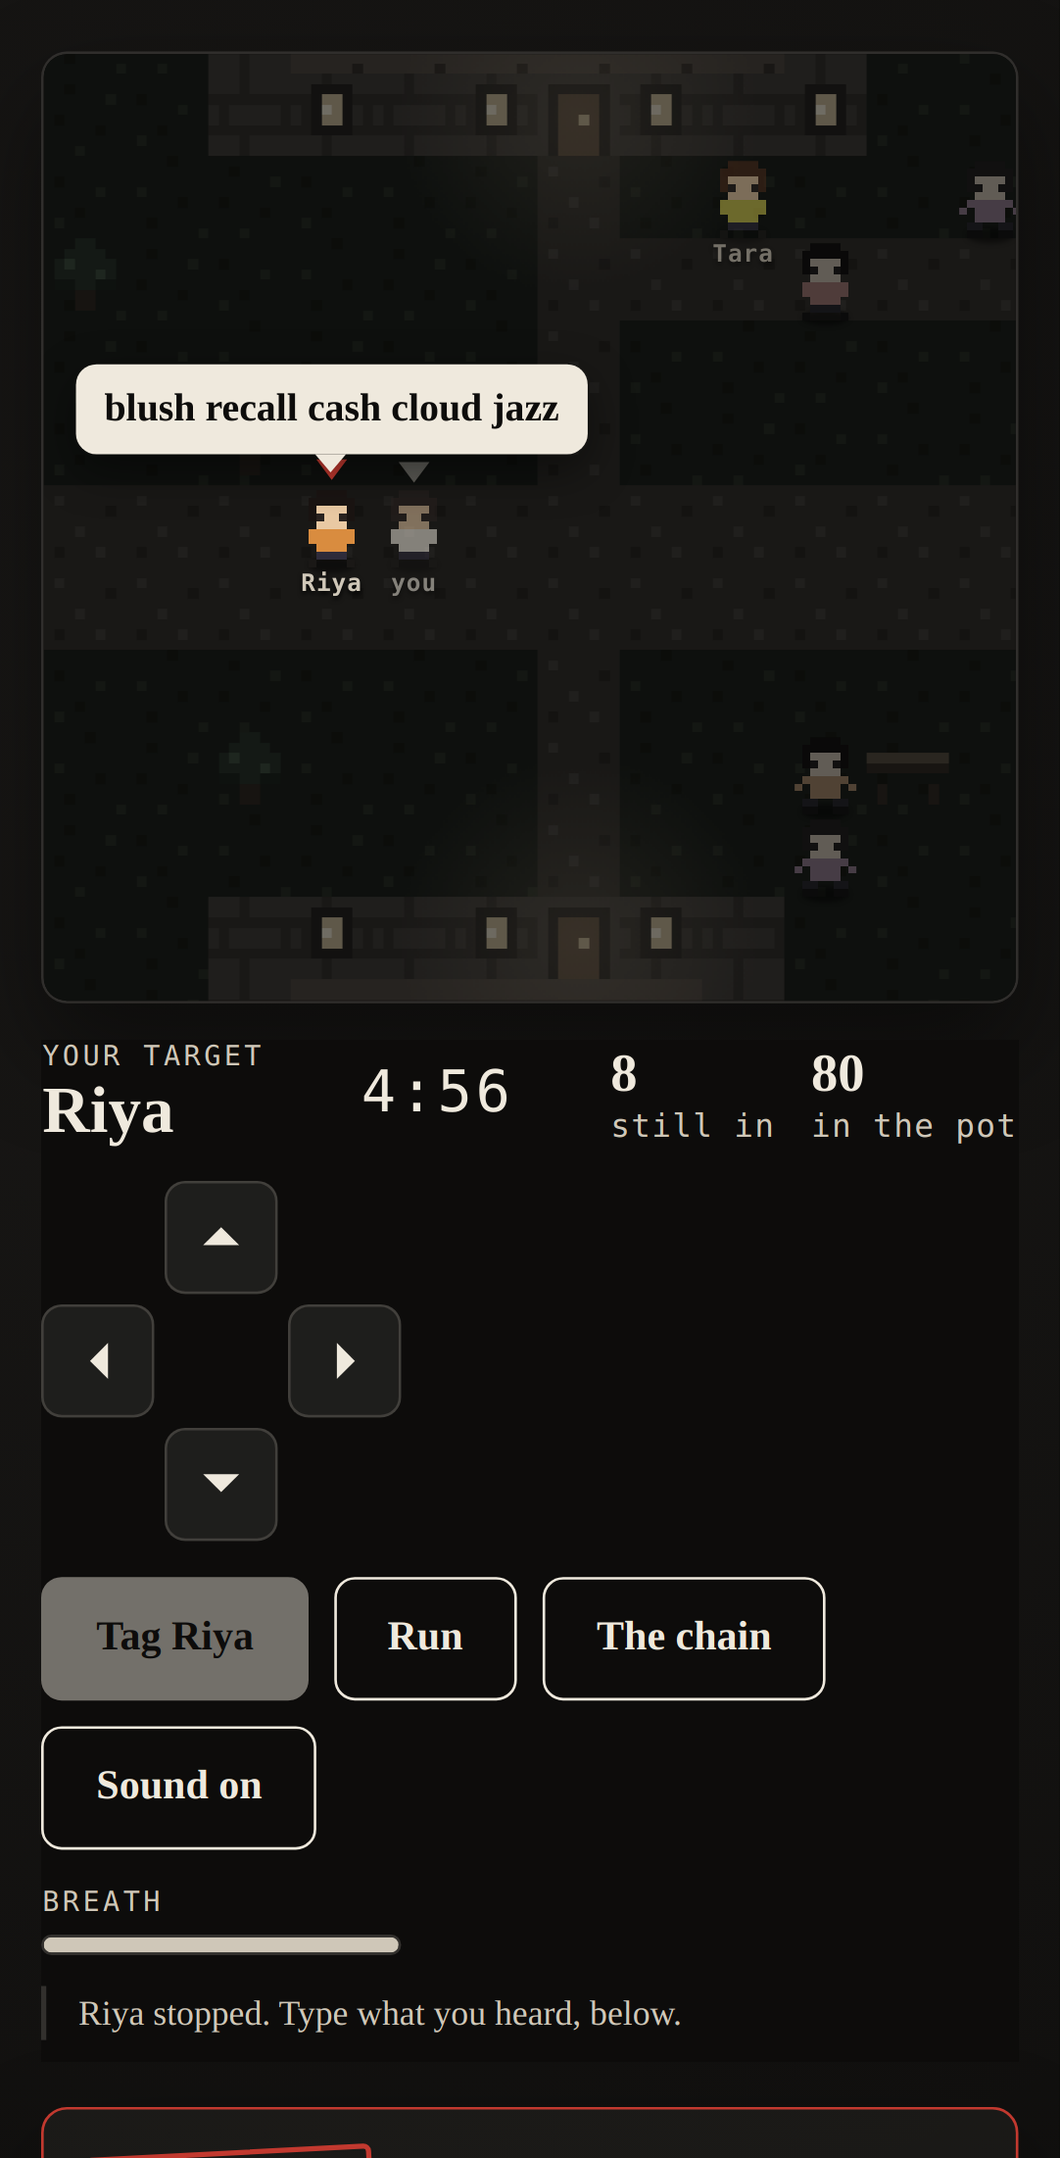
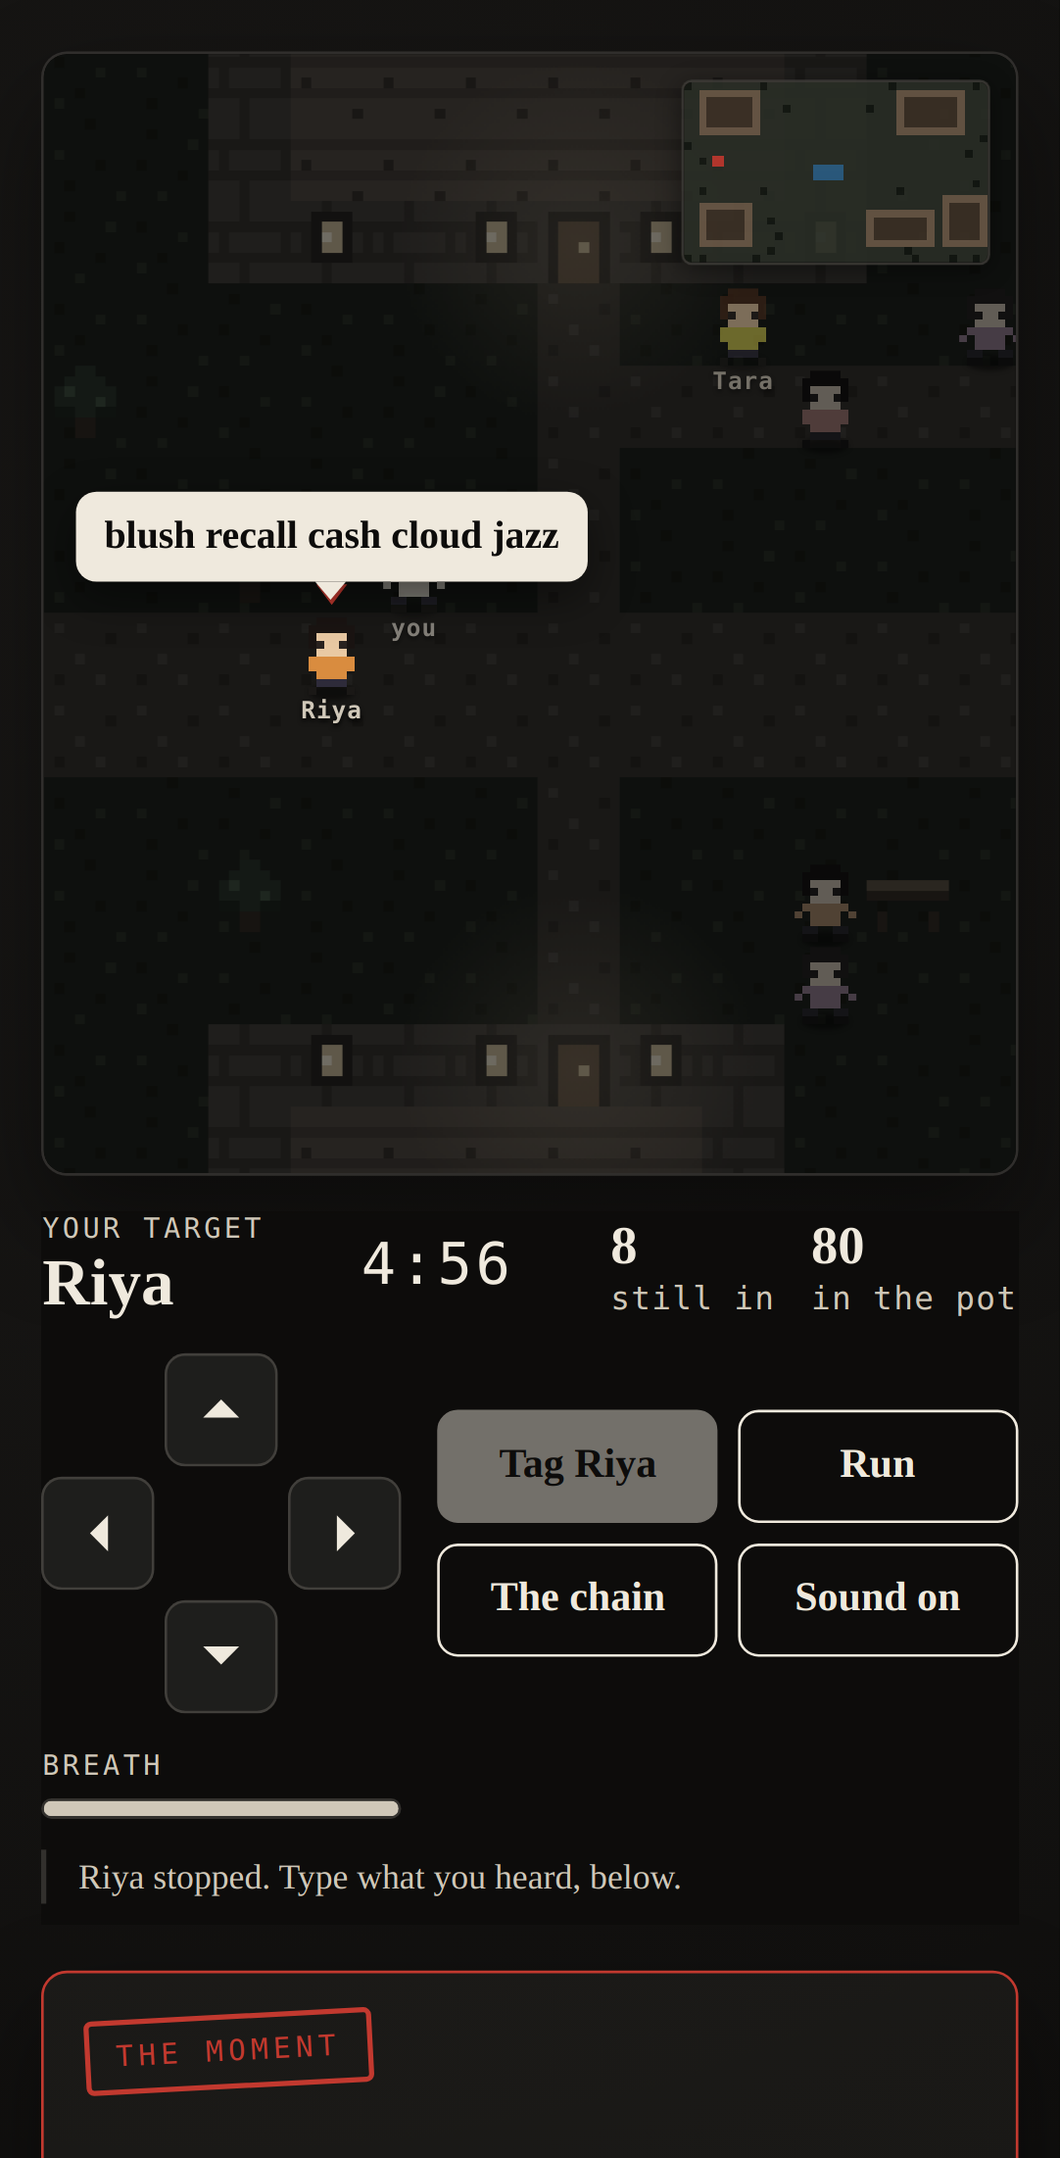
feat(hunt): the whole place in the corner, and controls that fit a phone
A phone shows about a third of the ground at a time, so the closing line was
mostly off the edge of the screen and a rumour about the Gym pointed nowhere.
The little map existed but sat in a card below the fold, which is exactly where
nobody looks while being chased. It now sits over the top right of the map,
carrying the ground, where you are and the last rumour's circle, and nothing
else: no other player's position is ever passed to it, so there is nothing on
it to leak. It takes no taps either, so tapping through it still walks you to
the tile underneath.

A pad is a cross, so the corners of its square were empty, about half the width
of a phone doing nothing while the four buttons wrapped underneath and pushed
the map up. They go in that space now, two across, and the map takes back the
line they cost, which puts the feeds on the first screen.

The hints named arrow keys, shift and Enter to people holding phones that have
none of them. They now name whichever one the reader is actually holding.

Also: every repository path named in the docs is checked in CI, after five of
them turned out to point at files that do not exist, one being the evidence
file the README tells a judge to open.

Verified: typecheck clean, 98 unit tests at 94 percent statements, app build
green, 28 browser tests passing.

diff --git a/app/src/ui/hunt.css b/app/src/ui/hunt.css
@@ -593,7 +593,7 @@
 
   .hunt.playing .hunt-viewport {
     margin-top: 4px;
-    height: clamp(240px, 44vh, 460px);
+    height: clamp(260px, 52vh, 520px);
   }
 
   .hunt.playing .hud {
@@ -608,6 +608,24 @@
     grid-template-columns: repeat(3, 44px);
     grid-template-rows: repeat(3, 44px);
   }
+
+  /*
+   * A pad is a cross, so the corners of its square are empty: about half the width of a phone
+   * sitting beside it doing nothing, while the buttons wrapped underneath and pushed the map up.
+   * They go in that space instead, two across, and the map takes back the line they cost.
+   */
+  .hunt.playing .hud-actions {
+    flex: 1 1 auto;
+    display: grid;
+    grid-template-columns: repeat(2, minmax(0, 1fr));
+    align-content: start;
+    gap: 8px;
+  }
+
+  .hunt.playing .hud-actions button {
+    min-height: 44px;
+    padding: 10px 8px;
+  }
 }
 
 .moment {
@@ -615,25 +633,48 @@
   border-color: var(--stamp);
 }
 
-.saw {
-  display: grid;
-  gap: 14px;
+/* Say "arrow keys" to somebody holding a keyboard and "the pad" to somebody holding a phone. */
+.only-touch {
+  display: none;
 }
 
-@media (min-width: 560px) {
-  .saw {
-    grid-template-columns: auto 1fr;
-    align-items: start;
+@media (pointer: coarse) {
+  .only-keyboard {
+    display: none;
+  }
+
+  .only-touch {
+    display: inline;
   }
 }
 
+/*
+ * Over the top right of the map, because a phone shows about a third of the ground at a time and
+ * the closing line is mostly off the edge of it. Not a control: it takes no taps, so tapping
+ * through it still walks you to the tile underneath.
+ */
 .minimap {
+  position: absolute;
+  top: 10px;
+  right: 10px;
+  z-index: 4;
   display: block;
-  width: 160px;
-  height: 96px;
+  width: 120px;
+  height: 72px;
   image-rendering: pixelated;
-  border: 1px solid var(--paper-line);
+  background: #0b0a09;
+  border: 1px solid rgba(232, 226, 214, 0.22);
   border-radius: 4px;
+  box-shadow: 0 2px 10px rgba(0, 0, 0, 0.5);
+  opacity: 0.9;
+  pointer-events: none;
+}
+
+@media (min-width: 560px) {
+  .minimap {
+    width: 160px;
+    height: 96px;
+  }
 }
 
 @media (prefers-reduced-motion: reduce) {

diff --git a/app/src/screens/Hunt.tsx b/app/src/screens/Hunt.tsx
@@ -6,10 +6,8 @@ import { HuntHud } from "../components/HuntHud.tsx";
 import { HuntMoment } from "../components/HuntMoment.tsx";
 import { HuntOverlays } from "../components/HuntOverlays.tsx";
 import { HuntStage } from "../components/HuntStage.tsx";
-import { Minimap } from "../components/Minimap.tsx";
 import { YourWords } from "../components/WordCode.tsx";
 import type { Dir } from "../hunt/grid.ts";
-import { YOU } from "../hunt/sim.ts";
 import { type Hunt as HuntGame, useHunt } from "../hunt/useHunt.ts";
 import "../ui/hunt.css";
 
@@ -71,8 +69,6 @@ const useKeyboard = (hunt: HuntGame): void => {
 export const Hunt = () => {
   const hunt = useHunt();
   useKeyboard(hunt);
-  const you = hunt.sim.actors[YOU];
-
   return (
     <main
       className={`hunt${hunt.phase === "intro" ? "" : " playing"}${hunt.exposed ? " exposed" : ""}${hunt.behind ? " behind" : ""}`}
@@ -99,19 +95,11 @@ export const Hunt = () => {
       <div className="grid two" style={{ marginTop: 18 }}>
         <section className="card">
           <h2>What you saw</h2>
-          <div className="saw">
-            <Minimap
-              world={hunt.world}
-              you={you?.at ?? null}
-              rumour={hunt.rumourAt}
-              ring={hunt.sim.ring}
-            />
-            <ul className="feed" aria-label="What you saw">
-              {hunt.worldFeed.map((entry) => (
-                <li key={entry.id}>{entry.text}</li>
-              ))}
-            </ul>
-          </div>
+          <ul className="feed" aria-label="What you saw">
+            {hunt.worldFeed.map((entry) => (
+              <li key={entry.id}>{entry.text}</li>
+            ))}
+          </ul>
           <hr style={{ border: 0, borderTop: "1px solid var(--paper-line)", margin: "20px 0" }} />
           <h2>Your words</h2>
           <p className="note" style={{ marginBottom: 14 }}>

diff --git a/app/src/components/HuntHud.tsx b/app/src/components/HuntHud.tsx
@@ -88,6 +88,13 @@ const Target = ({ hunt }: { readonly hunt: Hunt }) => {
   );
 };
 
+/**
+ * A phone has no arrow keys and no Enter, and a laptop has no pad worth using, so a hint naming
+ * the wrong one is a hint that reads as broken. Asked at render rather than stored: a person who
+ * picks up a tablet keyboard mid-game gets the other wording on the next tick.
+ */
+const coarse = (): boolean => window.matchMedia("(pointer: coarse)").matches;
+
 /** One line under the pad, and only the most pressing one. The order below is the priority. */
 const hint = (hunt: Hunt, target: string | null): string => {
   if (hunt.facts.youOut) {
@@ -106,10 +113,12 @@ const hint = (hunt: Hunt, target: string | null): string => {
     return `${target ?? "They"} stopped. Type what you heard, below.`;
   }
   if (target === null) {
-    return "Arrow keys or the pad to walk, shift to run. Tap somebody to walk up to them. Open your envelope to learn who you are hunting.";
+    return coarse()
+      ? "The pad walks you, and Run is faster and louder. Tap somebody to walk up to them. Open your envelope to learn who you are hunting."
+      : "Arrow keys or the pad to walk, shift to run. Tap somebody to walk up to them. Open your envelope to learn who you are hunting.";
   }
   if (hunt.canTag) {
-    return `You are next to ${target}. Tag them, or press Enter.`;
+    return coarse() ? `You are next to ${target}. Tag them.` : `You are next to ${target}. Tag them, or press Enter.`;
   }
   return `Find ${target}. Rumours arrive below. Somebody is finding you the same way, and running is loud.`;
 };

diff --git a/app/e2e/hunt.spec.ts b/app/e2e/hunt.spec.ts
@@ -181,6 +181,31 @@ test("a link to a game opens that game, even mid-hunt", async ({ page }) => {
   await expect(page).toHaveURL(/seed=22&players=4&place=park/);
 });
 
+test("a phone is told about the pad, not about arrow keys it does not have", async ({ page }) => {
+  await openHunt(page, 24);
+  await expect(page.getByText(/The pad walks, Run is faster/)).toBeVisible();
+  await expect(page.getByText(/Arrow keys or WASD/)).toBeHidden();
+
+  await page.getByRole("button", { name: "Start the hunt" }).click();
+  await expect(page.getByText(/The pad walks you, and Run is faster/)).toBeVisible();
+});
+
+test("the whole map sits in the corner of the one you can see", async ({ page }) => {
+  const corner = page.getByRole("img", { name: /The map, with you on it/ });
+
+  await openHunt(page, 23);
+  await expect(corner).toBeHidden();
+
+  await page.getByRole("button", { name: "Start the hunt" }).click();
+  await expect(corner).toBeVisible();
+
+  // The public record replaces the map, so the map in the corner goes with it.
+  await page.getByRole("button", { name: "The chain", exact: true }).click();
+  await expect(corner).toBeHidden();
+  await page.getByRole("button", { name: "Back to the map" }).click();
+  await expect(corner).toBeVisible();
+});
+
 test("the other place is a different map with its own buildings", async ({ page }) => {
   await openHunt(page, 19);
   await page.getByRole("group", { name: "Where you are playing" }).getByText("The park").click();

diff --git a/app/src/components/HuntStage.tsx b/app/src/components/HuntStage.tsx
@@ -18,6 +18,10 @@ import { spriteUrl } from "../hunt/pixels.ts";
 import { type Actor, YOU } from "../hunt/sim.ts";
 import type { Hunt } from "../hunt/useHunt.ts";
 import { ChainEye } from "./ChainEye.tsx";
+import { Minimap } from "./Minimap.tsx";
+
+/** The two phases where you are standing on the map. Everything else puts a card over it. */
+const ON_THE_MAP: ReadonlySet<Hunt["phase"]> = new Set(["playing", "moment"] as const);
 
 type Size = { readonly w: number; readonly h: number };
 
@@ -248,6 +252,14 @@ export const HuntStage = ({ hunt, children }: Props) => {
           <div className="lantern" style={{ background: lanternAt(you.at) }} aria-hidden="true" />
         ) : null}
       </div>
+      {/*
+        A phone shows about a third of the ground at a time, so without this you cannot see where
+        the grounds have closed to, or which way the rumour pointed. It carries nobody's live
+        position, only yours, because that is all it is ever given.
+      */}
+      {ON_THE_MAP.has(hunt.phase) && !hunt.chainEye ? (
+        <Minimap world={world} you={you?.at ?? null} rumour={hunt.rumourAt} ring={sim.ring} />
+      ) : null}
       {hunt.chainEye ? (
         <ChainEye snapshot={hunt.snapshot} onClose={hunt.toggleChainEye} />
       ) : null}

diff --git a/app/src/components/HuntOverlays.tsx b/app/src/components/HuntOverlays.tsx
@@ -87,8 +87,10 @@ const Intro = ({ hunt }: { readonly hunt: Hunt }) => {
         </button>
       </div>
       <p className="note" style={{ marginTop: 16 }}>
-        Practice takes the roofs off and sends your hunter home. Arrow keys or WASD walk, shift
-        runs, Enter tags, or tap the map. Every tag runs the real compiled contract in this tab.
+        Practice takes the roofs off and sends your hunter home.{" "}
+        <span className="only-keyboard">Arrow keys or WASD walk, shift runs, Enter tags, or tap</span>
+        <span className="only-touch">The pad walks, Run is faster and louder, or tap</span> the
+        map. Every tag runs the real compiled contract in this tab.
       </p>
     </section>
   );

diff --git a/app/src/components/Minimap.tsx b/app/src/components/Minimap.tsx
@@ -30,6 +30,7 @@ export const Minimap = ({ world, you, rumour, ring }: Props) => {
     <canvas
       ref={ref}
       className="minimap"
+      role="img"
       width={world.width * 4}
       height={world.height * 4}
       aria-label="The map, with you on it and the last place your target was heard of"

diff --git a/scripts/check-doc-paths.py b/scripts/check-doc-paths.py
@@ -1,0 +1,35 @@
+#!/usr/bin/env python3
+"""Every repo path named in the docs has to exist.
+
+A README that points at a file nobody can open is worse than one that says nothing: the reader
+assumes the rest is wrong too. Run from the repository root.
+"""
+
+import glob
+import os
+import re
+import sys
+
+TICK = chr(96)
+PATTERN = re.compile(TICK + r"([A-Za-z0-9_./-]+\.(?:json|ts|tsx|compact|mjs|yml|sh))" + TICK)
+
+
+def main() -> int:
+    missing = []
+    checked = set()
+    for doc in ["README.md", *sorted(glob.glob("docs/*.md"))]:
+        with open(doc, encoding="utf-8") as handle:
+            for path in PATTERN.findall(handle.read()):
+                if (doc, path) in checked:
+                    continue
+                checked.add((doc, path))
+                if not os.path.exists(path):
+                    missing.append((doc, path))
+    for doc, path in missing:
+        print(f"missing: {path} (named in {doc})")
+    print(f"{len(checked)} paths named, {len(missing)} missing")
+    return 1 if missing else 0
+
+
+if __name__ == "__main__":
+    sys.exit(main())

diff --git a/docs/ARCHITECTURE.md b/docs/ARCHITECTURE.md
@@ -177,7 +177,7 @@ Getting there took four fixes that are worth writing down, because none of them 
 | The indexer provider imports `WebSocket` by name | `isomorphic-ws` gives a browser only a default export | alias it to a shim that exports both |
 | After a long session every call fails to prove, or the node rejects one as invalid | the local chain has drifted from what the wallet and indexer believe | `stack:down` then `stack:up`. Nothing was spent: a proof that never landed never reached the chain |
 
-The proving material is the other half. `scripts/zk-assets.mjs` copies the compiled keys and ZKIR
+The proving material is the other half. `app/scripts/zk-assets.mjs` copies the compiled keys and ZKIR
 next to the app at build time, 65 MB of it, and the browser fetches one only when it is about to
 prove that circuit. Deploying needs the verifier keys, which are small; a tag needs a 19 MB prover
 key, which is fetched once and cached by the browser.
@@ -194,7 +194,7 @@ allowed to know different things.
 
 | Layer | Knows | Must never be shown |
 |---|---|---|
-| the simulation (`sim.ts`) | where everyone is, who hunts whom, so its bots can hunt | |
+| the simulation (`app/src/hunt/sim.ts`) | where everyone is, who hunts whom, so its bots can hunt | |
 | the screen (`HuntStage`, `HuntHud`) | where *you* are, who you can see, your own target once you open the envelope | anybody else's target, anybody out of sight |
 | the chain panel (`ChainPanel`, `ChainEye`) | phase, counts, the pot, spent notes, players as pseudonyms | any name, any link between two people |
 
@@ -204,7 +204,7 @@ who is alive and who hunts whom are read from the ledger each tick, and when a b
 target the event goes to the same `tag` circuit your own tags go to. The bots cannot do anything
 the contract would refuse, because they do not do anything the contract does not do.
 
-Sight is one rule for everybody, `canSee` in `sight.ts`: indoors you see your room, outdoors you
+Sight is one rule for everybody, `canSee` in `app/src/hunt/sight.ts`: indoors you see your room, outdoors you
 see nine tiles of open ground. Open is the word doing the work. A wall or a tree between two
 people stops sight dead, checked by walking the straight line between them, so a building is
 something to put between yourself and whoever is looking rather than a shape on the floor. The
@@ -237,10 +237,17 @@ hunting them and a field that exists is a field something eventually renders.
 ### The grounds close
 
 A map this size hides eight people for a very long time, and a game that ends on a timer is not a
-game. `ring.ts` is a pure function of the tick: three quarters of a minute in, the open ground
+game. `app/src/hunt/ring.ts` is a pure function of the tick: three quarters of a minute in, the open ground
 starts shrinking towards the middle, and two and a quarter minutes later a courtyard is all there
 is. It is drawn as a lit line with the dark closing in behind it, on the map and on the little
 one in the corner.
+
+That little one is the whole place at four pixels a tile, sitting over the top right of the map.
+A phone shows about a third of the ground at a time, so without it the closing line is mostly off
+the edge of the screen and a rumour about the Gym points nowhere. It is painted from three things
+and no others: the ground, where you are, and the last rumour's circle. No other player's
+position is ever passed to it, so there is nothing on it to leak, and it takes no taps, so
+tapping through it still walks you to the tile underneath.
 
 Nobody is walled in. Standing outside costs you instead: the crowd has drifted inside without
 you, so there is nobody left out there to be lost among, and every few seconds your hunter is
@@ -284,7 +291,7 @@ are not.
 
 A place is a block of text, a list of rooms, a list of landmarks and where people start. Rooms are
 flood-filled from the text, doors are found by adjacency, and everything else is worked out.
-`places.ts` lists them and the address bar carries which one you are on.
+`app/src/hunt/places.ts` lists them and the address bar carries which one you are on.
 
 The campus is buildings and crowds. The park is a wood down the west side, a lake, and open lawn
 in the middle, which plays differently for one reason: trees stop sight, so on the park the thing

diff --git a/README.md b/README.md
@@ -86,6 +86,10 @@ There are two places and they play differently. The campus is buildings and crow
 indoors, or in a knot of strangers. The park is a wood down one side and open lawn in the middle,
 where a tree line is the only thing between you and whoever is looking.
 
+The whole place sits in the corner of the screen, with you on it and a circle where the last
+rumour put your target. Nobody else is ever drawn on it, because nobody else's position is ever
+given to it.
+
 Three quarters of a minute in, **the grounds start closing**. The open ground shrinks towards the
 middle and the crowd drifts in with it. Nobody is walled in: step outside the line and there is
 nobody left out there to hide behind, and your hunter is told where you are every few seconds.
@@ -184,7 +188,7 @@ A recorded run, which the app shows on its evidence page:
 | **whole game** | **about 4 minutes 49 seconds** |
 
 Final state: phase `finished`, one player alive, three tags, **pot 0**, seven spent notes. The
-contract address and every transaction id are in `app/src/evidence/local-run.json`.
+contract address and every transaction id are in `app/src/evidence/chain-run.json`.
 
 ## Status
 
@@ -195,7 +199,7 @@ contract address and every transaction id are in `app/src/evidence/local-run.jso
 | Crypto and game core tests | 64 passing, 97% statement coverage |
 | The hunt's simulation | 98 unit tests: grid, both maps, sight and what blocks it, bots, catching, crowds, running, rumours, the closing grounds |
 | Does a hunt resolve | Measured, not assumed: whole games played out against the compiled contract at every size, all coming down to one player |
-| Browser tests | 26 passing on a phone viewport, including a hunt won, a hunt lost, the chain's view, both maps, a shared link and a player's phone |
+| Browser tests | 28 passing on a phone viewport, including a hunt won, a hunt lost, the chain's view, both maps, a shared link, the map in the corner and a player's phone |
 | Full game on a local chain | Deployed, played and paid out |
 | Spoken-word handover | Shipped: sandbox, chain runner and tests |
 | A game from a browser tab | Deploy, join, start and the bundle work; settling a tag is refused by the proof server |

diff --git a/docs/SUBMISSION.md b/docs/SUBMISSION.md
@@ -100,9 +100,9 @@ inside the proof.
 | Crypto and game core | 64, including the end to end proof that five spoken words yield exactly what the tag circuit checks |
 | The hunt's simulation | 98, pure and seeded: the same seed is the same game twice, and every structural test runs against both maps |
 | Does the game actually resolve | whole hunts played out with nobody at the keyboard, at every size, every tag through the compiled contract. It is a measurement, not an intention: before the grounds closed it left five to seven players standing at full time |
-| Browser tests | 25, on a phone viewport, including a hunt won to the payout, a hunt lost to your hunter, the chain's view before and after a tag, both maps, and a player's phone reading a real bundle |
+| Browser tests | 28, on a phone viewport, including a hunt won to the payout, a hunt lost to your hunter, the chain's view before and after a tag, both maps, a shared link picked up mid-game, and a player's phone reading a real bundle |
 | Coverage gates | 80 percent, currently 94 percent statements on the engine and 97 on the core |
-| CI | compiles the contract from source rather than trusting the committed circuits, then typechecks, tests, builds and plays the browser game |
+| CI | checks that every repository path the docs name still exists, compiles the contract from source rather than trusting the committed circuits, then typechecks, tests, builds and plays the browser game |
 
 ## The design decision worth arguing about
 
